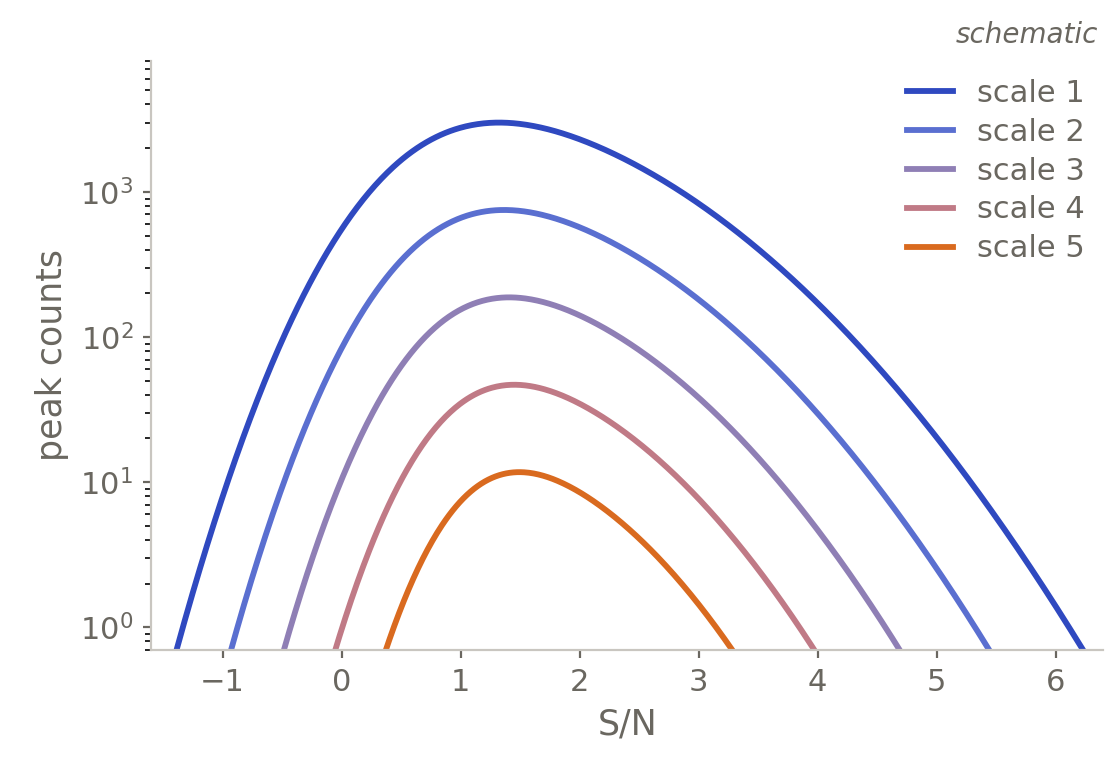
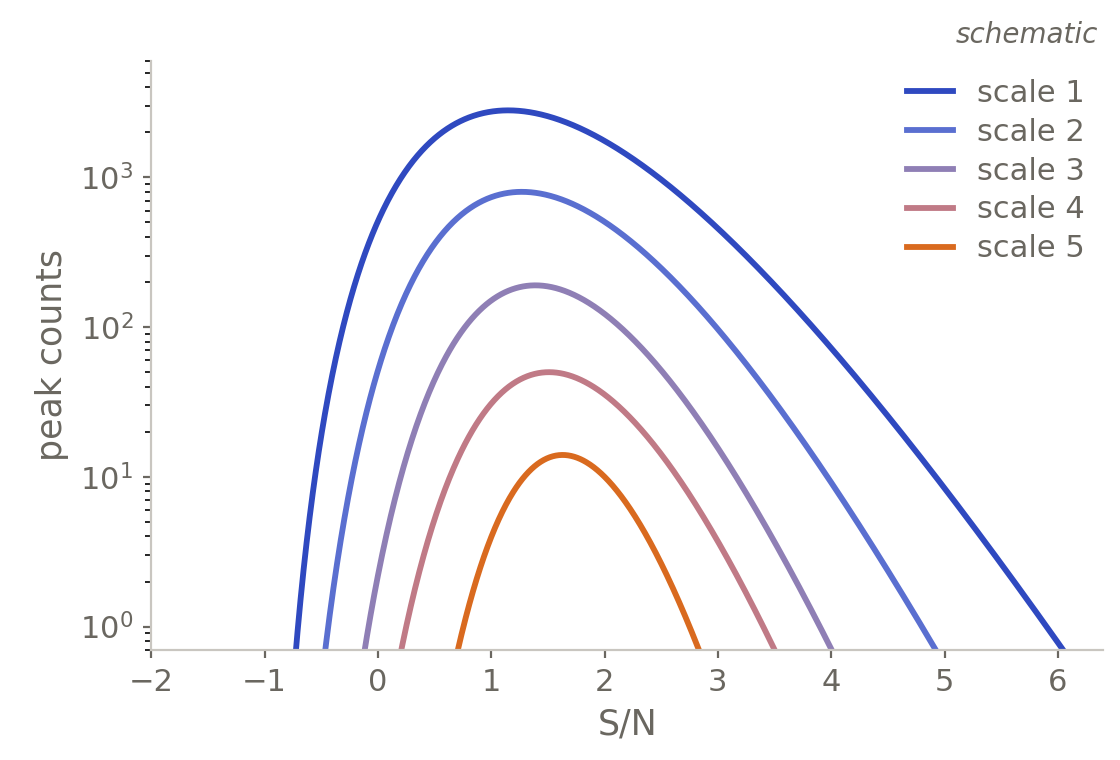
fix(PhD_Defense_2026): redraw the peak counts against the measured figure
The first version was a Gaussian, which on a log axis is a symmetric arch -
nothing like the measurement. The real curves rise almost vertically out of
the floor, turn over just above S/N = 1, and then fall along a long, nearly
straight line. That is a gamma, so it is a gamma now: the tail parameter is
solved per scale so each curve returns to a single count where the measured
one does (S/N about 5.9 at the finest scale, 2.8 at the coarsest), and the
turnover heights follow the measured 2800 / 800 / 190 / 50 / 14.

Claude-Session: https://claude.ai/code/session_01LWhC4XxHHpuwT6hbaAg56i

diff --git a/tools/make-hos-shapes.py b/tools/make-hos-shapes.py
@@ -80,18 +80,47 @@ def style(ax, xlabel, ylabel):
 
 
 # ------------------------------- peak counts --------------------------------
-nu = np.linspace(-1.6, 6.4, 800)
+# A gamma, not a Gaussian. On a log axis the measured curves are not arches:
+# they rise almost vertically out of the floor, turn over just above S/N = 1,
+# and then fall along a nearly straight line - an exponential tail. That is
+# what ((nu-nu0)^k) exp(-(nu-nu0)/theta) gives, with the tail slope set by
+# theta and the sharpness of the rise by k. Reference: starlet_peaks_thumb.png.
+NU0 = -1.05
+PEAK_NU = [1.15, 1.27, 1.39, 1.51, 1.63]      # where each scale turns over
+AMP     = [2800.0, 800.0, 190.0, 50.0, 14.0]  # counts at the turnover
+END_NU  = [5.90, 4.80, 3.90, 3.40, 2.75]      # where it falls back to one count
+
+
+def gamma_shape(nu, amp, mode, theta):
+    k = mode / theta
+    x = np.clip(nu - NU0, 1e-9, None)
+    return amp * (x / mode) ** k * np.exp(-(x - mode) / theta)
+
+
+def theta_for(amp, mode, end):
+    """The tail is set by where the curve comes back to a single count, which
+    is what the measured figure shows and what the eye reads off a log axis."""
+    lo, hi = 0.02, 2.0
+    for _ in range(80):
+        mid = 0.5 * (lo + hi)
+        if gamma_shape(np.array([end + NU0 + mode]), amp, mode, mid)[0] > 1.0:
+            hi = mid
+        else:
+            lo = mid
+    return 0.5 * (lo + hi)
+
+
+nu = np.linspace(-2.0, 6.6, 1600)
 figA, axA = plt.subplots(figsize=(5.6, 3.8))
 for j in range(NS):
-    amp = 3000.0 / (4.0 ** j)
-    mu = 0.62 + 0.10 * j
-    sig = 1.35 - 0.11 * j
-    y = amp * skewnorm(nu, mu, sig, 2.2) / skewnorm(np.array([mu + 0.5 * sig]),
-                                                    mu, sig, 2.2)[0]
+    mode = PEAK_NU[j] - NU0
+    th = theta_for(AMP[j], mode, END_NU[j] - PEAK_NU[j])
+    y = gamma_shape(nu, AMP[j], mode, th)
+    y[nu <= NU0] = np.nan
     axA.plot(nu, y, color=SCALE_COLS[j], lw=2.1, label="scale %d" % (j + 1))
 axA.set_yscale("log")
-axA.set_xlim(-1.6, 6.4)
-axA.set_ylim(0.7, 8e3)
+axA.set_xlim(-2.0, 6.4)
+axA.set_ylim(0.7, 6e3)
 style(axA, "S/N", "peak counts")
 figA.subplots_adjust(left=0.135, right=0.985, top=0.92, bottom=0.145)
 figA.savefig("assets/diagrams/hos_peaks_shape.png", dpi=200, transparent=True)
